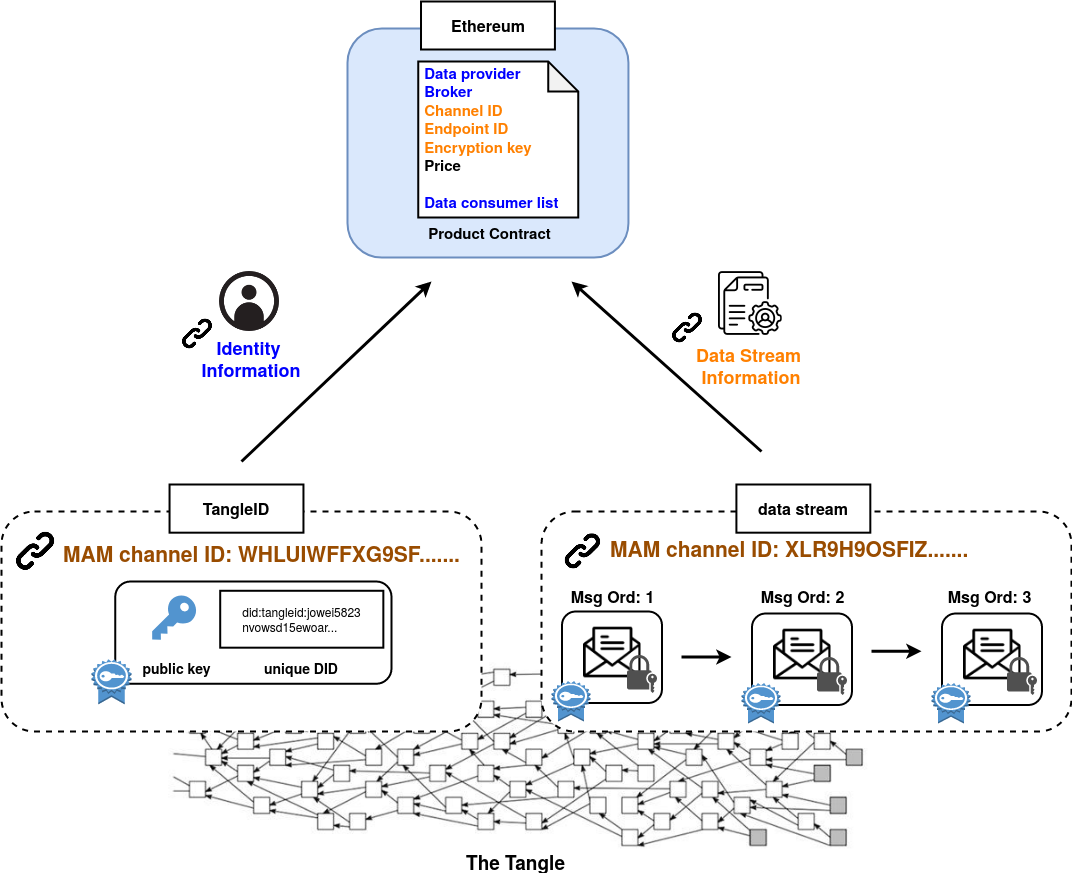
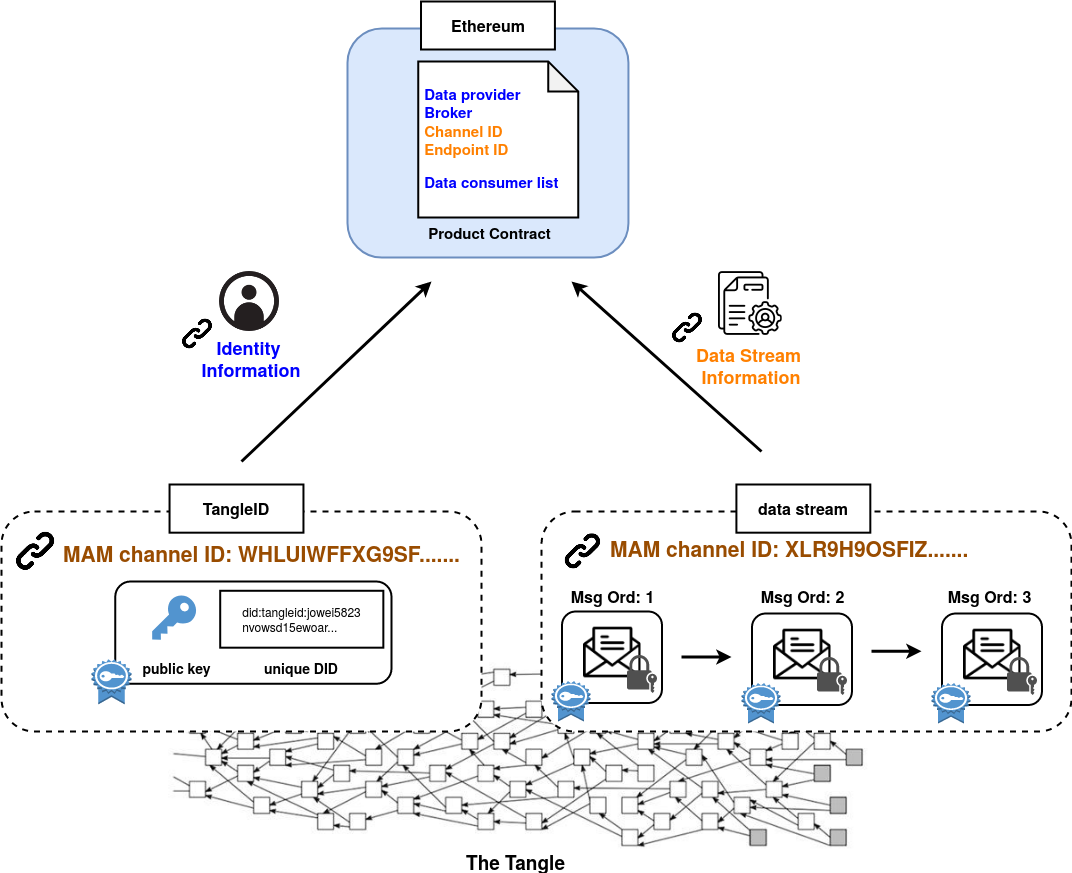
Fix grammar

Changed region(s): [[0.4002, 0.0619, 0.5233, 0.2474]]

diff --git a/paper.tex b/paper.tex
@@ -59,29 +59,29 @@ In IoT, the development of M2M technology\cite{M2M}, cyber physical system (CPS)
 In contrast to the architectures in \cite{DIaas, MARSA} that target to handle static data sets, we aim for processing the high volume, high velocity and high variety of real-time "Big Data" streams\cite{BigData}. As streaming data is composed of records at every moment, users or devices are interested in data of a specific time period instead of the whole timeline. For example, the Internet of Vehicles (IoV) allows vehicles to connect with traffic signs and bicycles, share information, and at the same time be able to understand the real-time environmental conditions and find the best route through the communication. While vehicles and traffic lights continuously generate information, a device only needs to process the data streams of surroundings but all appliances in the IoV. Therefore, the publish/subscribe (pub/sub) communication model that provides the flexibility of following and unfollowing the data streams for users is more appropriate in the IoT scenarios.
 
 % SaaS
-The economic incentive model in our proposed IoT data trading platform works as subscription service that valuates the payments by data usage. The subscription-based models (e.g. SaaS and platform-as-a-service (PaaS)) are embedded in our lives, such as newspaper, video/audio streaming and softwares, which can bring enormous operating incomes and offer advantages that allows service providers have the flexibility in resource planning as well as a better prediction of revenue streams. And for service consumers, they can subscribe and unsubscribe the services at will at anytime. The subscription-based model can easily adapts the underlying pub/sub communication model and benefit both data providers and consumers which promotes a good circulation of the platform. In \cite{SaaS}, the author pointed out that the strength of the relationships between consumers and providers of subscription-based services depends on the service quality (i.e., the data quality in data trading platform), and trust is key to successful subscription-based services.
+The economic incentive model in our proposed IoT data trading platform works as subscription service that valuates the payments by data usage. The subscription-based models (e.g. SaaS and platform-as-a-service (PaaS)) are embedded in our lives, such as newspaper, video/audio streaming and softwares, which can bring enormous operating incomes and offer advantages that allows service providers have the flexibility in resource planning as well as a better prediction of revenue streams. And for service consumers, they can subscribe and unsubscribe the services at will at anytime. The subscription-based model can easily adapt the underlying pub/sub communication model and benefit both data providers and consumers which promotes a good circulation of the platform. In \cite{SaaS}, the author pointed out that the strength of the relationships between consumers and providers of subscription-based services depend on the service quality (i.e., the data quality in data trading platform), and trust is key to successful subscription-based services.
 
 %trustless & automated
 %trust: 對系統、對身份、對資料
-In data trading platforms, there are three major aspects that need trust: identity, data ownership and trading. Proving the identity as well as the ownership of data is a challenging issue among various roles in a large scale platform. In current systems, trusted third-party authority like CA is widely adopted to certify each member. However, building trust upon CA is dangerous and fragile. The compromise of routers or CA can break the trust of entire system, and the data portability of using third-party services is still under suspicion. Meanwhile, these concerns are taking into data storage as well, keeping data assets in a centralized data storage or cloud service meet the constraints of data portability, which may violate General Data Protection Regulation (GDPR)\cite{GDPR}. Besides CA and storage, the subscription history of data consumer may reveal his/hers interests and the exposure of personal information during trading process against GDPR as well. The final trust is trading procedures, apart from setting up the agreement between providers and consumers, both of them need to confirm that the agreement will be executed even if one party fails to comply.
+In data trading platforms, there are three major aspects that need trust: identity, data ownership and trading. Proving the identity as well as the ownership of data are challenging issues among various roles in a large scale platform. In current systems, trusted third-party authority like CA is widely adopted to certify each member. However, building trust upon CA is dangerous and fragile. The compromise of routers or CA can break the trust of entire system, and the data portability of using third-party services is still under suspicion. Meanwhile, these concerns are taking into data storage as well, keeping data assets in a centralized data storage or cloud service meet the constraints of data portability, which may violate General Data Protection Regulation (GDPR)\cite{GDPR}. Besides CA and storage, the subscription history of data consumer may reveal his/hers interests and the exposure of personal information during trading process against GDPR as well. The final trust is trading procedures, apart from setting up the agreement between providers and consumers, both of them need to confirm that the agreement will be executed even if one party fails to comply.
 
-Among the challenges of data trading platform\cite{BigDataMarket} and the requirements mentioned above, we conclude the following four essential ones:
+Among the challenges of data trading platform\cite{BigDataMarket} and the requirements mentioned above, we conclude the following five essential ones:
 \begin{itemize}
 	\item \textbf{Scalability}. 
 1) The performance of the platform should scale with the massive amount of participants. 2) The keys and entry points of data products managed by participants should be as small as possible. 
 	\item \textbf{Integrity}. 1) Prevent unauthorized modifications. 2) Ensure the accuracy and validity of contents.	
 	\item \textbf{Confidentiality}. 
-1) Only the authorized participants can access data streams. 2) Participants that have access can always retrieve data even if they're dropped from the network.	
+1) Only the authorized participants can access data streams. 2) Legitimate participants can always retrieve data even if they're dropped from the network.	
 	\item \textbf{Privacy}. Avoid revealing sensitive information of all participants, such as IP address and data consumers' habits which may leak within the subscription history.
 	\item \textbf{Economics Incentive}. The economic incentives can encourage the data providers to participate in the system and pay more attention to the quality control. 
 \end{itemize}
 
-Taking all the requirements and the features of streaming data into consideration, the data trading platform for IoT towards a decentralized and trustless design. In this paper, we investigate the use of decentralized publish/subscribe (pub/sub) model and DLTs to construct the authority-less and trusted infrastructure. See Fig.~\ref{fig:system_design}. The pub/sub model features the scalability and resource-efficiency, and DLTs resolve the trust of the service, since data and contracts (i.e., smart contracts) written on DLTs are transparent, immutable, and enforced automatically, which allows devices focus on their jobs while gaining the rewards. Lastly, an end-to-end encrypted transmission protocol built on top of DLT is used as data storage, which not only ensures the data integrity, but also enables access control and provides a scalable key and data management.
+Taking all the requirements and the features of streaming data into consideration, the data trading platform for IoT towards a decentralized and trustless design. In this paper, we investigate the use of decentralized publish/subscribe (pub/sub) model and DLTs to construct the authority-less and trusted infrastructure. See Fig.~\ref{fig:system_design}. The pub/sub model features the scalability and resource-efficiency, and DLTs resolve the trust of the service, since data and contracts (i.e., smart contracts) written on DLTs are transparent, immutable, and enforced automatically, the digital rights of participants are protected. Lastly, an end-to-end encrypted transmission protocol built on top of DLT is used as data storage, which not only ensures the data integrity, but also enables access control and provides a scalable key and data management.
 
 \subsection{Contributions}
 The contributions in the paper are summarized as follow:
 \begin{itemize}
-	\item We investigate the usage of DLTs and distributed data storages in order to propose a decentralized architecture for IoT trading, and enables participants to automate the trading procedures and secure digital assets exchange across different organizations.
+	\item We investigate the usage of DLTs and distributed data storages in order to propose a decentralized architecture for IoT trading, and to enable participants to automate the trading procedures and secure digital assets exchange across different organizations.
 	\item We apply the subscription-based services economic model to adapt the features of IoT streaming data, and clarify the importance of using a decentralized identity system for trading.
 	\item We evaluate the performance and concerns of adopting an end-to-end encrypted transmission protocol, and propose an alternative approach for low-level devices to adopt this protocol while ensure the privacy of using the protocol.
 	\item We analyze the cost of designed smart contract to estimate the minimum data product price for data providers to sustain a product and the minimum cost for data consumers to interact with date product.
@@ -114,7 +114,7 @@ The previous works contribute to different aspects of building a reliable pub/su
 \subsection{Trusted IoT Trading Infrastructure}
 Multiple infrastructures for trusted IoT data trading have been proposed by Paolo Missier et. al\cite{MindMyValue} presenting an IoT brokered infrastructure based marketplace which enables trading with Ethereum smart contracts. The brokers are only responsible for data transmission in order to adapt flexible agreement between participants. Unlike the standard pub/sub model that matches publishers and subscribers that participants are unaware of each other. However, the data cubes (i.e., a tuple of information, such as provider, subscriber and time period) are stored in a centralized Cassandra NoSQL database, which is guaranteed to be tamper-proof but the risk of single point failure still exists.
 
-A. Colman et al. \cite{TrustedMarketplaceWearable} discussed on trading the sensitive data among wearables. Several security issues are well discussed and solved with DLTs in the paper, the system consists of multiple components that has its different responsibilities, such as data anonymizer eliminates keen information for privacy protection, access controller handles the key management and contract manager manages Ethereum smart contracts. While the trading processes are split into multiple servers, and the request/response communication model is applied, the scalability problem of the marketplace remains.
+A. Colman et al. \cite{TrustedMarketplaceWearable} discussed on trading the sensitive data among wearables. Several security issues are well discussed and solved with DLTs in the paper, the system consists of multiple components aiming for different responsibilities, such as data anonymizer eliminates keen information for privacy protection, access controller handles the key management and contract manager manages Ethereum smart contracts. While the trading processes are split into multiple servers, and the request/response communication model is applied, the scalability problem of the marketplace remains.
 
 In the following researches, Masked Authenticated Messaging (MAM)\cite{MAM} is regarded as a secure data transmission layer and data storage built on top of DLT which provides access control, tamper-proof and authentication functionalities by tailoring messages to a channel. Jinzhi Lu et al.\cite{luDecentralizedDM} builds the data exchange system with MAM and IPFS\cite{IPFS}, a content-based addressing distributed storage system. Considering the limited transaction processing capability of DLT, the authors suggest to adopt IPFS to handle the encrypted large data sets, then add the encrypted IPFS link to MAM for further exchange. This research takes MAM as data transmission layer only that focuses on secure data exchanging architecture design and security analysis, but the trading strategies are not studied yet. A similar infrastructure proposed by Zichichi et al.\cite{SocialGood} offered a key and entry points management with MAM that minimize the information which data producers need to hold. Also, Ethereum smart contract is used to maintain an authorized user list and to enable trading. However, the access control is examined by Authentication Service, the only client/server communication architecture, where the security issues and bottleneck of system emerges from, and the details of trading and interactions between providers and consumers are not illustrated in this paper. Though taking IPFS as data storage instead of MAM is more efficient due to the current growth of underlying DLT, the chance of data losses and the effeciency of IPFS remain, which will be further discussed in Section.~\ref{section:distributed_storage}. 
 
@@ -144,9 +144,9 @@ There are three major roles, data providers, data consumers and brokers which ar
 
 \begin{itemize}
 \item \textbf{Data Provider: }
-Data providers are the ones that generate streaming data and set the data price based on the different types of data. With the subscription fee that earned via trading, data providers are incentivized to maintain and improve the quality of data.
+Data providers are the ones that generate streaming data and set the data price based on the different types of data. Subscription fees can motivate data providers to maintain and improve the quality of data.
 \item \textbf{Data Consumer: }
-Data consumers are entities that are willing to buy data streams. As it is laborious to widely deploy devices to collect data from scratch, and without a marketplace, it is also difficult to find providers of the data sets, purchases is the fastest and efficient way to get the desired data sets.
+Data consumers are entities that are willing to buy data streams. As it is laborious to widely deploy devices to collect data from scratch and it is also difficult to find desired data sets, purchase is the fastest and efficient way to get the desired data sets.
 \item \textbf{Broker: }
 Brokers are responsible for building an agreement between data providers and consumers. Brokers are required to be online for providers and consumers, and they are incentivized by charging brokerage fees.
 \end{itemize}
@@ -156,7 +156,7 @@ We adopt the brokered infrastructure for three reasons. Firstly, it inherits the
 \begin{figure*}[!t]
     \centering
     \includegraphics[width=\linewidth]{channel_and_key}
-    \caption{Within MAM channel, the message publisher has 2 types of key, the encryption keys for content encryption and signature keys for digital signatures. Subscribers can validate the message with signature keys and decrypt messages with encryption keys.}
+    \caption{Within MAM channel, the message publisher has 2 types of key, an encryption key for encrypting contents and a signature key per message for digital signatures. Subscribers can validate the message with signature keys and decrypt messages with encryption keys.}
     \label{fig:channel_and_key}
 \end{figure*}
 
@@ -190,7 +190,7 @@ MAM publishes authenticated streaming data to channel and endpoint as zero-value
 Using MAM as a data storage benefits from the scalability of the underlying IOTA network as well as the decentralized and fault-tolerant characteristics of distributed ledgers, which reduce the risks of centralized storage services. Furthermore, the rights of data access are traded instead of a copy of data in the trading platform, which eliminates the need for data consumers to have additional storage.
 
 \subsection{Digital Identity}
-The digital identity represents an entity and holds the digital assets within the digital world, it is important to prove and show the identity to others during interactions. We select the decentralized identity model rather than a centralized one for the concerns in Table.\ref{tab:did}.
+The digital identity represents entities and holds the digital assets within the digital world, it is important to prove and show the identity to others during interactions. We select the decentralized identity model rather than a centralized one for the concerns in Table.\ref{tab:did}.
 
 \begin{table}[h]
 	\caption{The comparison of centralized and decentralized identity model}
@@ -221,7 +221,7 @@ In the decentralized identity model, every entity has a Decentralized Identifier
 
 In our architecture, a decentralized identity system TangleID\cite{TangleID} is used, which is built on top of MAM where change logs of DIDs are traceable. One can easily prove himself by sharing the identifier on MAM without any authority.
 
-Through TangleID, entities get a public/private key pair, the location of DID document and the seed (i.e., the identifier of its owner in IOTA) that generates the DID document MAM public channel. The public/private key pair can be used to exchange sensitive data and establish the trust communication, where messages that are encrypted with a public key can only be decrypted with private key owner. During data subscription process, the encryption keys of data products are encrypted with data consumers' public key on DID document which ensures only the subscribed consumers are accessible. See Fig.~\ref{fig:TangleID}
+Through TangleID, entities get a public/private key pair, the location of DID document and the seed (i.e., the identifier of its owner in IOTA) that used to generate the DID document MAM channel. The public/private key pair can be used to exchange sensitive data and establish the trust communication, where messages that are encrypted with a public key can only be decrypted with private key owner. During data subscription process, the encryption keys of data products are encrypted with data consumers' public key on DID document which ensures only the subscribed consumers are accessible. See Fig.~\ref{fig:TangleID}
 
 \begin{figure}[h]
     \centering
@@ -235,7 +235,7 @@ Through TangleID, entities get a public/private key pair, the location of DID do
 \begin{figure*}[t]
     \centering
     \includegraphics[width=4in]{smart_contract_mam}
-    \caption{The information of identity and data streams are stored on the Tangle with MAM which are all recorded on Product Contracts. Participants can easily retrieve information via Product Contract and proceed trading. For signature validation check and further exchange encryption keys, the MAM channel ID of participants' DID document  are written down, presented in blue color. The orange color stands for the information of data products, which includes the data stream channel/endpoint ID and encryption key certified by broker.}
+    \caption{The information of identity and data streams are stored on the Tangle with MAM which are all recorded on Product Contracts. Participants can easily retrieve information via Product Contract and proceed trading. For signature validation check and further exchange encryption keys, the MAM channel ID of participants' DID document are written down, presented in blue color. The orange color stands for the information of data products, which includes the data stream channel/endpoint ID.}
     \label{fig:smart_contract_mam}
 \end{figure*}
 
@@ -243,7 +243,7 @@ Ethereum is a cryptocurrency building on top of a public blockchain-based distri
 
 With the functionalities of Ethereum smart contracts, a flexible and verifiable trading mechanism can be achieved. In our system, \textbf{Product Contract} is made for the product launching and trading. The information of data products such as address of the data provider, subscription fee, brokerage fee, threshold of consent votes of refunding, MAM channel/endpoint ID (the data entry point), time period and the broker-verified encryption key are listed on Product Contract. Listing. \ref{lst:constructor} list the data fields of Product Contract, and Fig.~\ref{fig:smart_contract_mam} shows the relationship of Product Contract and MAM. Furthermore, the participants can exchange encryption keys without any authorities via smart contracts. Though this design may cost extra transaction fees than exchanging key off-chain, it is considered a more secure strategy to protect the privacy of participants that only the DID document address and Ethereum addresses are revealed during the subscription process.
 
-The transparency of smart contracts bring advantages for data providers and consumers. One of the advantage is that the trading states and progress are visible and verifiable which profits providers and consumers respectively. For data providers, with every details opened, the consumer list functions like a reputation evaluation, the better the quality the more the consumers he/her has. The consumer list and the states of products, which includes \textit{Launched, KeyCertified, Finished} and \textit{Refunded} are key reputation referenced for data consumers to decide whether to subscribe. 
+The transparency of smart contracts bring advantages for data providers and consumers. One of the advantage is that the trading states and progress are visible and verifiable which profits providers and consumers respectively. For data providers, with every detail opened, the consumer list functions like a reputation evaluation, the better the quality the more the consumers he/she has, which are also reputation references for data consumers.
 
 \lstdefinestyle{solidity}{
 	captionpos=b,
@@ -287,14 +287,14 @@ contract Product {
 \end{lstlisting}
 
 \subsection{Enable computation tasks delegation to broker with privacy}
-To manage data products and to benefit from trading, data providers have to interact with MAM and Ethereum smart contract while doing its original tasks. However, the resources of low-level devices are precious which should be used to focus on its jobs. Therefore, the operations of MAM and smart contracts are better to be delegated to brokers. 
+To manage data products and to benefit from trading, data providers have to interact with MAM and Ethereum smart contract while doing its original tasks. However, the limited resources of low-level devices should be used on its jobs instead of handling all trading processes. Therefore, the operations of MAM and smart contracts are better to be delegated to brokers. 
 
-The delegation should ensure the privacy of data providers, for instance, brokers are asked to attach messages to MAM without knowing the contents as well as record encryption keys to smart contracts. To record encryption key to smart contract, data provider computes the digest of sensitive contents with hash function, and sends the digest as well as the signature to brokers. Broker can first verify the signature from data provider with the public key on DID document. If it's valid, then the broker uploads the key, otherwise the process will be aborted. Note that the broker needs to sign the messages he/she receives, which has been proven to be key uploaded by a broker recorded on the Product Contract. The number of key uploading time is also restricted in order to avoid data provider uploading fake key frequently. If the data consumers find out the encryption key does not match the signature or can not decrypt data streams as expected, they can launch a vote refund to withdraw their funds. Fig.~\ref{fig:key_upload} demonstrates the key uploading process to Product Contract via a broker. 
+The delegation should ensure the privacy of data providers, for instance, brokers are asked to attach messages to MAM without knowing the contents as well as record encryption keys to smart contracts. To record encryption key to smart contract, data provider computes the digest of sensitive contents with hash function, and sends the digest as well as the signature to brokers. Broker can first verify the signature from data provider with the public key on DID document. If it's valid, then the broker uploads the key; otherwise the process will be aborted. Note that the broker needs to sign the encrypted encryption key he/she receives proving that it is uploaded by the responsible broker. This procedure allows data consumers to check whether the encryption key is uploaded by committed data provider and broker before subscription. Fig.~\ref{fig:key_upload} demonstrates the key uploading process to Product Contract via a broker. 
 
 \begin{figure}[h]
     \centering
     \includegraphics[width=3.5in]{key_upload}
-    \caption{To add encryption key to Product Contract, the data provider sends the digest of encryption key and the one that signed with his/hers private key. After the broker receive the request, he/she performs digital signature as well, then write the result to the Product Contract.}
+    \caption{To add encryption key to Product Contract, the data provider sends the digest of encryption key and the one that signed with his/hers private key. After the broker receive the request, he/she performs digital signature as well to prove the ecryption key is uploaded by the responsible broker, then writes the result to the Product Contract.}
     \label{fig:key_upload}
 \end{figure}
 
@@ -529,7 +529,7 @@ Also, data provider will change the encryption key of data product to prevent un
 \end{figure}
 
 \subsection{Launch a Refund}
-Data subscription is a high risk which data provider may not upload data as the agreement set after receiving the subscription fee. Therefore, in our proposed architecture, data consumers can trigger a refund procedure by sending a transaction on Ethereum if the data is not available or defective. When the refund procedure is launched, all consumers vote to decide whether the refund is established. See Fig.~\ref{fig:refund}. Once the ratio of consent votes of refunding is higher than a threshold, the subscription fee is proportionally transferred to the data provider, broker and every consumer as following, where$N$ is the number of consumers in this contract:
+Data subscription is a high risk which data provider may not upload data as the agreement set after receiving the subscription fee. Therefore, in our proposed architecture, data consumers can trigger a refund procedure by sending a transaction on Ethereum if the data is not available or defective. When the refund procedure is launched, all consumers vote to decide whether the refund is established. See Fig.~\ref{fig:refund}. Once the ratio of consent votes of refunding is higher than a threshold, the subscription fee is proportionally transferred to the data provider, broker and every consumer as following, where $N$ is the number of consumers in this contract:
 
 \begin{equation}
     F_{DataProvider}(i) = Nprice \frac{i-1}{M} (1-F_{b}) -F_{t}
@@ -546,7 +546,7 @@ Data subscription is a high risk which data provider may not upload data as the 
 \begin{figure}[h]
     \centering
     \includegraphics[width=1.5in]{refund}
-    \caption{Once a data consumer launch a refund procedure, all consumers votes to decide whether they want a refund from data providers. Finally, the establishment of refund is determined by Product Contract after checking the votes is higher than a threshold or not.}
+    \caption{Once a data consumer launch a refund vote, all consumers start voting to decide whether they want a refund. Finally, the establishment of refund is determined by Product Contract after checking the number of votes is larger than a threshold or not.}
     \label{fig:refund}
 \end{figure}
 
